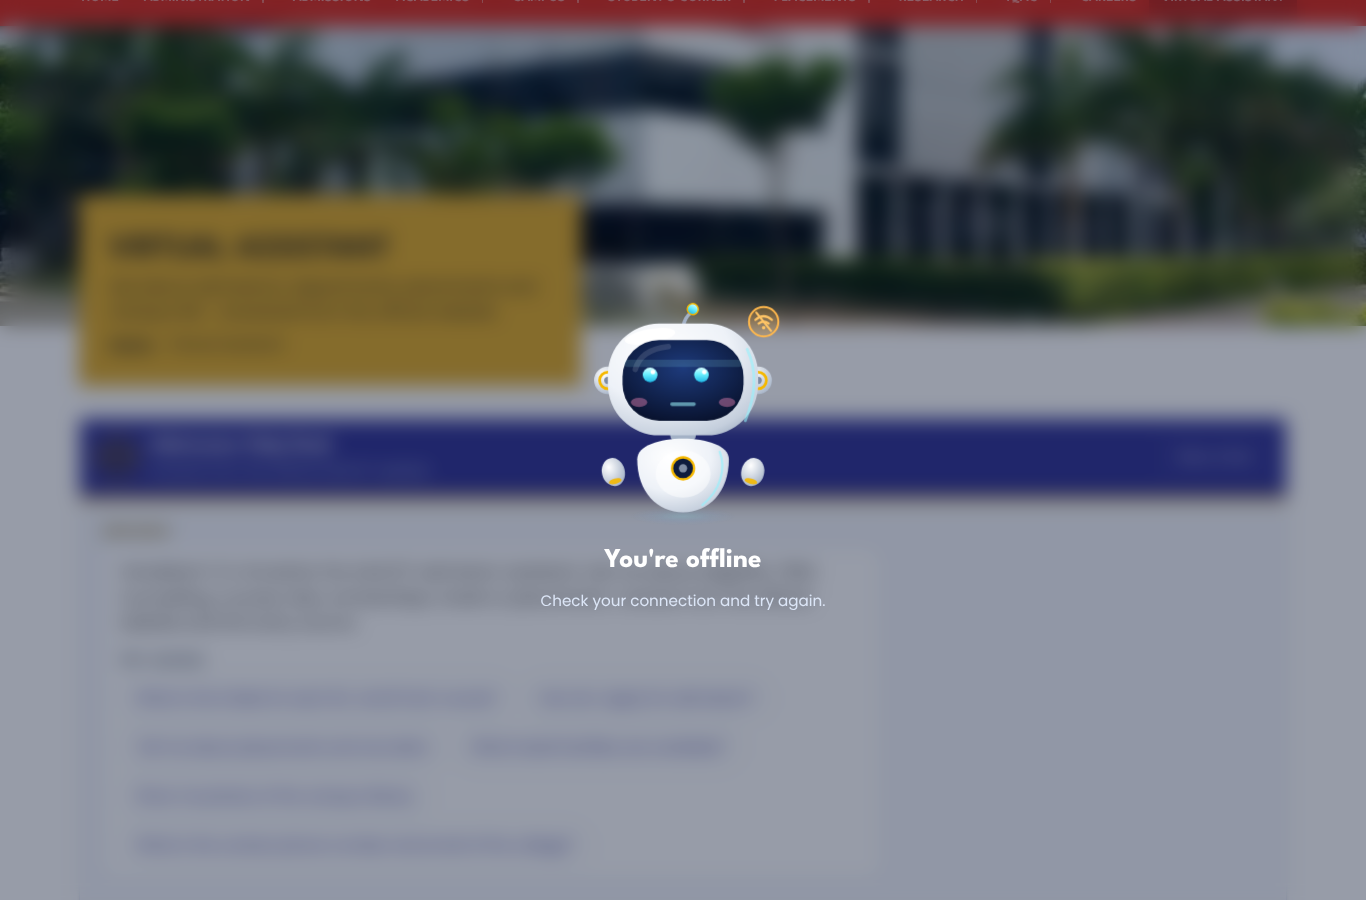
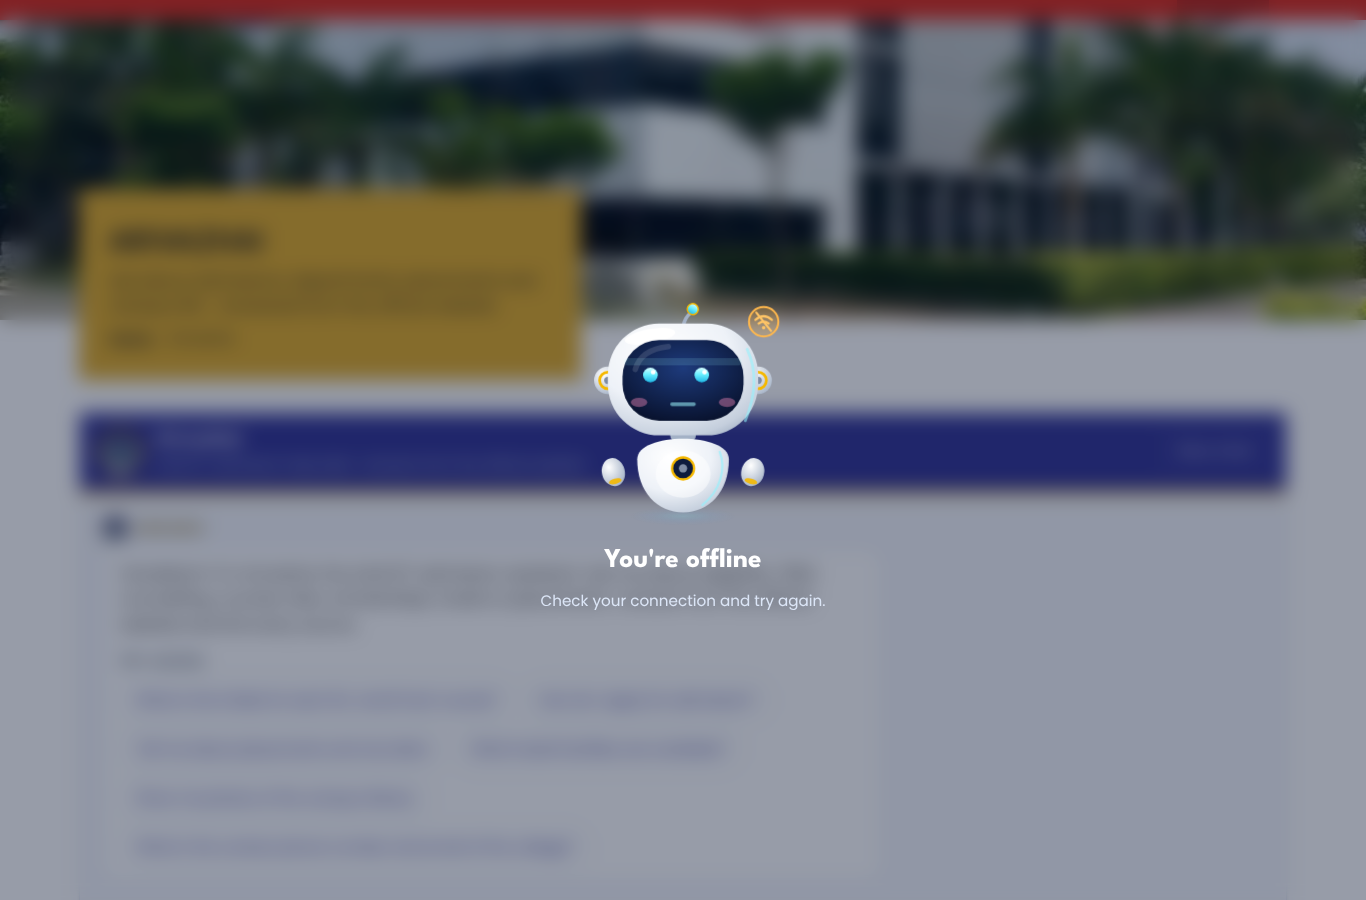
Name the assistant Arivazhai everywhere and give it a profile picture
- Arivazhai's profile picture (the robot's face from the design, still
  except for its blink) and name in the chat header and above each message.
- "Virtual Assistant" becomes Arivazhai in the menu, page title, breadcrumb,
  browser title and description, footer, AI system prompt, API title and
  README.
- Loading now uses the welcome hop and wave with "Getting ready…", and turns
  into "Vanakkam! I'm Arivazhai" without the robot popping in again.

Claude-Session: https://claude.ai/code/session_01NVahJL1p12jphadNDtFLf6

diff --git a/frontend/src/__tests__/moments.test.tsx b/frontend/src/__tests__/moments.test.tsx
@@ -2,7 +2,7 @@ import { act, render, screen } from "@testing-library/react";
 import userEvent from "@testing-library/user-event";
 import { afterEach, beforeEach, describe, expect, it, vi } from "vitest";
 import { ChatWindow, QUICK_TOPICS } from "../components/ChatWindow";
-import { ENTER_MS, EXIT_MS, HOLD_MS, MIN_LOAD_MS, MomentStore, momentForFailure, momentForResult, moments } from "../robot/moments";
+import { ENTER_MS, EXIT_MS, HOLD_MS, MIN_LOAD_MS, MomentStore, ROBOT_FACE, momentForFailure, momentForResult, moments } from "../robot/moments";
 import { RobotMoments } from "../robot/RobotMoments";
 import { answerResult, jsonResponse, noAnswerResult } from "../test/fixtures";
 
@@ -71,6 +71,8 @@ describe("RobotMoments on the page", () => {
     render(<RobotMoments />);
     expect(shown()).toBe("load");
     expect(screen.getByText("Getting ready…")).toBeInTheDocument();
+    expect(ROBOT_FACE.load).toBe("greet");
+    expect(document.querySelector(".mov svg.rb")).toHaveClass("greet"); // waving while loading
     expect(await screen.findByText("Vanakkam! I'm Arivazhai", {}, { timeout: MIN_LOAD_MS + 1000 })).toBeInTheDocument();
     expect(shown()).toBe("greet");
   });
@@ -128,5 +130,19 @@ describe("chat events bring the robot in", () => {
     await user.type(screen.getByLabelText("Ask a question about AAACET"), "fees{Enter}");
     await screen.findByRole("alert");
     expect(shown()).toBe("error");
+  });
+});
+
+describe("loading", () => {
+  beforeEach(() => void vi.useFakeTimers());
+
+  it("waves while loading and turns into the welcome without popping in again", () => {
+    const store = new MomentStore();
+    store.show({ kind: "load" }, { sticky: true });
+    const id = store.getSnapshot().moment?.id;
+    store.show({ kind: "greet" });
+    expect(store.getSnapshot().moment).toMatchObject({ id, kind: "greet", title: "Vanakkam! I'm Arivazhai" });
+    store.show({ kind: "think" });
+    expect(store.getSnapshot().moment?.id).not.toBe(id);
   });
 });

diff --git a/frontend/src/robot/Robot.tsx b/frontend/src/robot/Robot.tsx
@@ -6,8 +6,11 @@ import "./robot.css";
 export const ROBOT_ACCENT = "#F5B800";
 
 interface Props {
-  moment: MomentKind;
+  /** Omitted for the profile picture: the robot's resting face. */
+  moment?: MomentKind;
   accent?: string;
+  /** "head" crops to the face, for the profile picture. */
+  crop?: "full" | "head";
 }
 
 /**
@@ -15,10 +18,10 @@ interface Props {
  * switches its face and motion through robot.css. Gradient ids are unique per instance.
  * Decorative: the moment's title and text are shown next to it.
  */
-export const Robot = memo(function Robot({ moment, accent = ROBOT_ACCENT }: Props) {
+export const Robot = memo(function Robot({ moment, accent = ROBOT_ACCENT, crop = "full" }: Props) {
   const uid = `rb${useId().replace(/[^a-zA-Z0-9]/g, "")}`;
   return (
-    <svg className={`rb ${moment}`} viewBox="0 0 240 260" width="100%" height="100%" aria-hidden="true" focusable="false" data-moment={moment}>
+    <svg className={moment ? `rb ${moment}` : "rb"} viewBox={crop === "head" ? "18 0 204 160" : "0 0 240 260"} width="100%" height="100%" aria-hidden="true" focusable="false" data-face={moment}>
       <defs>
       <radialGradient id={`${uid}Body`} cx="0.36" cy="0.26" r="0.9"><stop offset="0" stopColor="#FFFFFF" /><stop offset="0.5" stopColor="#EEF2F8" /><stop offset="0.85" stopColor="#C5CFDD" /><stop offset="1" stopColor="#9AA9BF" /></radialGradient>
       <radialGradient id={`${uid}Silver`} cx="0.35" cy="0.3" r="0.8"><stop offset="0" stopColor="#FFFFFF" /><stop offset="1" stopColor="#A3B1C6" /></radialGradient>

diff --git a/frontend/src/robot/RobotMoments.tsx b/frontend/src/robot/RobotMoments.tsx
@@ -1,12 +1,12 @@
 import { useEffect, useSyncExternalStore } from "react";
 import { checkHealth } from "../api/client";
-import { MIN_LOAD_MS, moments, momentForFailure } from "./moments";
+import { MIN_LOAD_MS, ROBOT_FACE, moments, momentForFailure } from "./moments";
 import { Robot } from "./Robot";
 
 /**
  * Arivazhai's moments: the robot pops up centred over a blurred screen for about 2.5 s, then
- * floats away. It never stays in the chat. On page load it shows "loading" while the assistant
- * is contacted, then "welcome" (or "offline"/"error" if it cannot be reached).
+ * floats away. It never stays in the chat. On page load it waves with "Getting ready…" while the
+ * assistant is contacted, then says "Vanakkam!" (or "offline"/"error" if it cannot be reached).
  */
 export function RobotMoments() {
   const { moment, leaving } = useSyncExternalStore(moments.subscribe, moments.getSnapshot, moments.getSnapshot);
@@ -37,7 +37,7 @@ export function RobotMoments() {
       {moment && (
         <div className="mov" key={moment.id} data-moment={moment.kind}>
           <div className="moment__robot">
-            <Robot moment={moment.kind} />
+            <Robot moment={ROBOT_FACE[moment.kind]} />
           </div>
           <p className="moment__title">{moment.title}</p>
           <p className="moment__text">{moment.text}</p>

diff --git a/frontend/e2e/robot.spec.ts b/frontend/e2e/robot.spec.ts
@@ -22,7 +22,7 @@ const NO_DATA = {
 };
 
 const overlay = (page: Page) => page.locator(".moment");
-const robot = (page: Page) => page.locator(".moment svg.rb");
+const robot = (page: Page) => page.locator(".moment .mov");
 
 async function shot(page: Page, name: string, desktop: boolean) {
   if (!desktop) return;
@@ -49,6 +49,7 @@ test("page load: loading, then welcome, then the robot leaves the chat", async (
   await page.goto("/");
   await expect(robot(page)).toHaveAttribute("data-moment", "load");
   await expect(overlay(page).getByText("Getting ready…")).toBeVisible();
+  await expect(overlay(page).locator("svg.rb")).toHaveAttribute("data-face", "greet"); // waves while loading
   await shot(page, "01-loading", desktop);
 
   await expect(robot(page)).toHaveAttribute("data-moment", "greet", { timeout: 5000 });
@@ -59,7 +60,7 @@ test("page load: loading, then welcome, then the robot leaves the chat", async (
   await settled(page);
   const visibleFor = Date.now() - shownAt;
   expect(visibleFor).toBeLessThan(4000);
-  await expect(page.locator(".chat svg.rb")).toHaveCount(0); // never inside the chat
+  await expect(page.locator(".chat :not(.profile) > svg.rb")).toHaveCount(0); // only its profile picture is in the chat
 });
 
 test("question sent: thinking over the blurred chat, then the answer", async ({ page }, info) => {

diff --git a/frontend/src/styles/global.css b/frontend/src/styles/global.css
@@ -483,19 +483,47 @@ img {
   min-width: 0;
 }
 
-.chat__badge {
+/* Arivazhai's profile picture: the robot's face in a gold-ringed navy disc (the chat badge of Mobile.dc.html) */
+.profile {
   flex-shrink: 0;
   display: grid;
   place-items: center;
-  width: 42px;
-  height: 42px;
   border-radius: 50%;
-  background: var(--desk-navy-dark);
-  border: 2px solid var(--desk-gold);
-  color: var(--desk-gold);
-  font-family: var(--brand-font-heading);
-  font-size: 0.75rem;
-  font-weight: 700;
+  background: var(--desk-navy-dark, #1f2160);
+  border: 2px solid var(--desk-gold, #e0ac2a);
+  overflow: hidden;
+}
+
+.profile--large {
+  width: 48px;
+  height: 48px;
+}
+
+.profile--small {
+  width: 26px;
+  height: 26px;
+  border-width: 1.5px;
+}
+
+.profile svg {
+  width: 88%;
+  height: 88%;
+}
+
+/* a still portrait: only the blink stays */
+.profile .rb,
+.profile .rb * {
+  animation: none !important;
+}
+
+.profile .rb .eyes {
+  animation: rbBlink 5.7s infinite !important;
+}
+
+@media (prefers-reduced-motion: reduce) {
+  .profile .rb .eyes {
+    animation: none !important;
+  }
 }
 
 .chat__title {
@@ -563,6 +591,9 @@ img {
 }
 
 .message__sender {
+  display: inline-flex;
+  align-items: center;
+  gap: 8px;
   font-size: 0.72rem;
   font-weight: 800;
   letter-spacing: 0.04em;

diff --git a/frontend/src/components/ChatWindow.tsx b/frontend/src/components/ChatWindow.tsx
@@ -5,6 +5,7 @@ import { moments, momentForFailure, momentForResult } from "../robot/moments";
 import { ChatInput } from "./ChatInput";
 import { LoadingIndicator } from "./LoadingIndicator";
 import { MessageBubble } from "./MessageBubble";
+import { RobotProfile } from "../robot/RobotProfile";
 import { AssistantLabel } from "./AssistantLabel";
 import { SuggestedQuestions } from "./SuggestedQuestions";
 
@@ -49,14 +50,12 @@ export function ChatWindow() {
     <section className="chat" id="assistant" aria-labelledby="chat-title">
       <div className="chat__header">
         <div className="chat__brand">
-          <span className="chat__badge" aria-hidden="true">
-            AAA
-          </span>
+          <RobotProfile />
           <div className="chat__heading">
             <h2 id="chat-title" className="chat__title">
-              Admission Help Desk
+              Arivazhai
             </h2>
-            <p className="chat__subtitle">Answers from the official {brand.short_name} website</p>
+            <p className="chat__subtitle">{brand.short_name} admission help desk · answers from the official website</p>
           </div>
         </div>
         <button type="button" className="chat__new" onClick={startNewChat} disabled={messages.length === 0 && !loading}>

diff --git a/frontend/src/robot/moments.ts b/frontend/src/robot/moments.ts
@@ -11,6 +11,19 @@ export interface Moment {
   text: string;
 }
 
+/**
+ * The robot's face and motion for each moment. Loading uses the welcome hop and wave, so the
+ * robot is already greeting while the assistant is contacted.
+ */
+export const ROBOT_FACE: Record<MomentKind, MomentKind> = {
+  greet: "greet",
+  load: "greet",
+  think: "think",
+  error: "error",
+  net: "net",
+  unsure: "unsure",
+};
+
 /** From the design: 0.35 s fade and blur in, about 2.2 s hold, 0.4 s exit. */
 export const ENTER_MS = 350;
 export const HOLD_MS = 2200;
@@ -79,7 +92,10 @@ export class MomentStore {
   show(cue: Cue, options: { sticky?: boolean } = {}): void {
     this.clearTimers();
     const base = MOMENT_TEXT[cue.kind];
-    this.current = { id: ++this.counter, kind: cue.kind, title: cue.title ?? base.title, text: cue.text ?? base.text };
+    // loading turns into the welcome without the robot popping in again: it is already waving
+    const continues = this.current?.kind === "load" && cue.kind === "greet" && !this.leaving;
+    const id = continues && this.current ? this.current.id : ++this.counter;
+    this.current = { id, kind: cue.kind, title: cue.title ?? base.title, text: cue.text ?? base.text };
     this.leaving = false;
     this.shownAt = Date.now();
     this.emit();

diff --git a/frontend/src/__tests__/App.test.tsx b/frontend/src/__tests__/App.test.tsx
@@ -11,10 +11,10 @@ describe("App layout", () => {
     render(<App />);
     expect(screen.getByRole("banner")).toBeInTheDocument();
     const nav = screen.getByRole("navigation", { name: "Main" });
-    expect(within(nav).getByRole("link", { name: "Virtual Assistant" })).toHaveAttribute("aria-current", "page");
-    expect(screen.getByRole("heading", { level: 1, name: "Virtual Assistant" })).toBeInTheDocument();
+    expect(within(nav).getByRole("link", { name: "Arivazhai" })).toHaveAttribute("aria-current", "page");
+    expect(screen.getByRole("heading", { level: 1, name: "Arivazhai" })).toBeInTheDocument();
     expect(screen.getByRole("navigation", { name: "Breadcrumb" })).toBeInTheDocument();
-    expect(screen.getByRole("region", { name: "Admission Help Desk" })).toBeInTheDocument();
+    expect(screen.getByRole("region", { name: "Arivazhai" })).toBeInTheDocument();
     expect(screen.getByRole("contentinfo")).toHaveTextContent(brand.college_name);
     expect(screen.getByRole("link", { name: "Skip to the question box" })).toHaveAttribute("href", "#chat-message");
   });

diff --git a/frontend/e2e/assistant.spec.ts b/frontend/e2e/assistant.spec.ts
@@ -26,7 +26,7 @@ async function ask(page: Page, question: string) {
 
 test("welcome screen", async ({ page }, info) => {
   await page.goto("/");
-  await expect(page.getByRole("heading", { level: 1, name: "Virtual Assistant" })).toBeVisible();
+  await expect(page.getByRole("heading", { level: 1, name: "Arivazhai" })).toBeVisible();
   await expect(page.getByText(/Vanakkam! I'm Arivazhai, the AAACET admission assistant/)).toBeVisible();
   await expect(page.getByRole("button", { name: "How do I apply for admission?" })).toBeVisible();
   await expectNoHorizontalScroll(page);
@@ -122,7 +122,7 @@ test("mobile menu", async ({ page }, info) => {
   const nav = page.getByRole("navigation", { name: "Main" });
   await expect(nav).toBeHidden();
   await page.getByRole("button", { name: "Open menu" }).click();
-  await expect(nav.getByRole("link", { name: "Virtual Assistant" })).toBeVisible();
+  await expect(nav.getByRole("link", { name: "Arivazhai" })).toBeVisible();
   await momentGone(page);
   await page.screenshot({ path: join(SHOTS, "mobile-menu.png") });
 });

diff --git a/frontend/src/App.tsx b/frontend/src/App.tsx
@@ -31,14 +31,14 @@ export default function App() {
       >
         <div className="container">
           <div className="page-banner__box">
-            <h1 className="page-banner__title">Virtual Assistant</h1>
+            <h1 className="page-banner__title">Arivazhai</h1>
             <p className="page-banner__lead">Ask about admissions, departments, placements and campus life - answered from the official website.</p>
             <nav aria-label="Breadcrumb">
               <ol className="breadcrumb">
                 <li>
                   <a href={safeHref(brand.official_url)}>Home</a>
                 </li>
-                <li aria-current="page">Virtual Assistant</li>
+                <li aria-current="page">Arivazhai</li>
               </ol>
             </nav>
           </div>

diff --git a/frontend/src/components/Footer.tsx b/frontend/src/components/Footer.tsx
@@ -33,10 +33,10 @@ export function Footer() {
       <div className="container site-footer__grid">
         <section aria-labelledby="footer-about">
           <h2 id="footer-about" className="site-footer__heading">
-            About this assistant
+            About Arivazhai
           </h2>
           <p>
-            The {brand.short_name} Virtual Assistant answers from content published on the official {brand.college_name} website.
+            Arivazhai, the {brand.short_name} admission assistant, answers from content published on the official {brand.college_name} website.
             Please confirm important details such as fees and deadlines with the college office.
           </p>
         </section>

diff --git a/frontend/index.html b/frontend/index.html
@@ -3,9 +3,9 @@
   <head>
     <meta charset="UTF-8" />
     <meta name="viewport" content="width=device-width, initial-scale=1.0" />
-    <meta name="description" content="AAACET Virtual Assistant - answers from the official AAA College of Engineering and Technology website." />
+    <meta name="description" content="Arivazhai, the AAACET admission assistant - answers from the official AAA College of Engineering and Technology website." />
     <link rel="icon" href="/brand/favicon.png" />
-    <title>Virtual Assistant | AAA College of Engineering and Technology</title>
+    <title>Arivazhai | AAA College of Engineering and Technology</title>
   </head>
   <body>
     <div id="root"></div>
